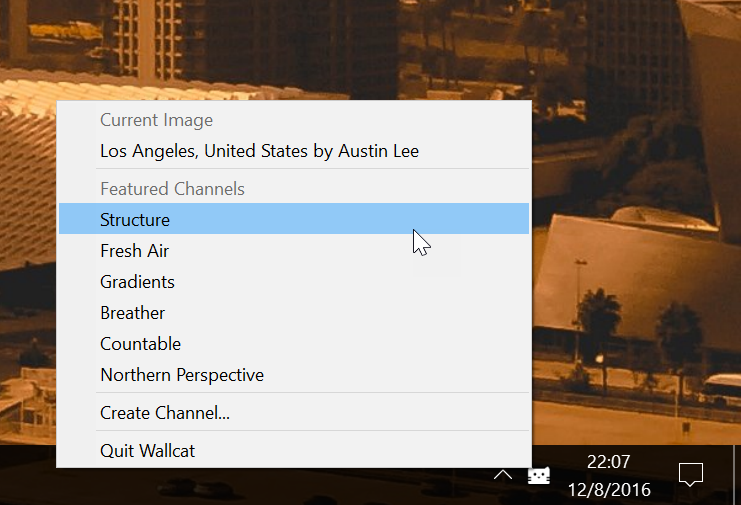
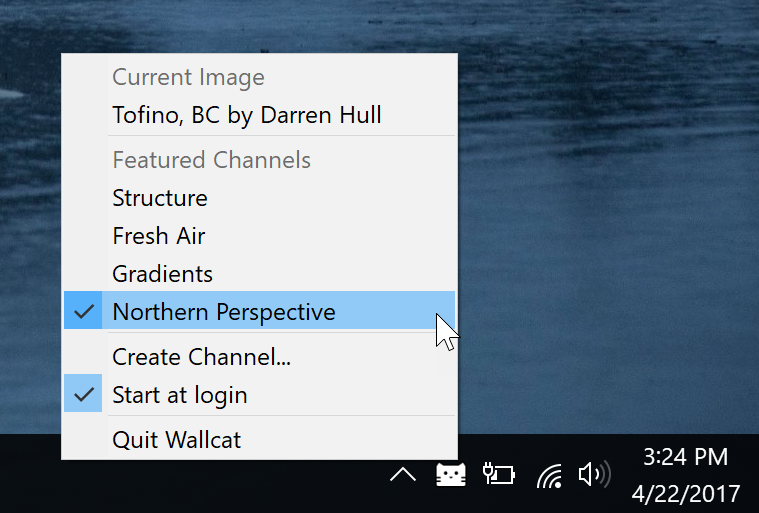
Run at Startup Option, Show Checkmark next to current image

diff --git a/Program.cs b/Program.cs
@@ -1,9 +1,11 @@
-using System;
+using IWshRuntimeLibrary;
+using Microsoft.Win32;
+using System;
 using System.Diagnostics;
+using System.IO;
 using System.Linq;
 using System.Threading;
 using System.Windows.Forms;
-using Microsoft.Win32;
 using Wallcat.Services;
 using Wallcat.Util;
 
@@ -37,12 +39,16 @@ namespace Wallcat
 
         private static void Application_ThreadException(object sender, ThreadExceptionEventArgs e)
         {
+#if DEBUG
             MessageBox.Show(e.Exception.ToString(), "Thread Exception!");
+#endif
         }
 
         private static void CurrentDomain_UnhandledException(object sender, UnhandledExceptionEventArgs e)
         {
+#if DEBUG
             MessageBox.Show((e.ExceptionObject as Exception).ToString(), "Unhandled Exception!");
+#endif
         }
     }
 
@@ -73,11 +79,12 @@ namespace Wallcat
             // Add Menu items
             var channels = _wallcatService.GetChannels().Result;
             _contextMenu.MenuItems.Add(new MenuItem("Featured Channels") { Enabled = false });
-            _contextMenu.MenuItems.AddRange(channels.Select(channel => new MenuItem(channel.title, SelectChannel) { Tag = channel }).ToArray());
+            _contextMenu.MenuItems.AddRange(channels.Select(channel => new MenuItem(channel.title, SelectChannel) { Tag = channel, Checked = IsCurrentChannel(channel) }).ToArray());
             _contextMenu.MenuItems.AddRange(new[]
             {
                 new MenuItem("-") { Enabled = false },
-                new MenuItem("Create Channel...", (sender, args) => Process.Start("https://wall.cat/partners")),
+                new MenuItem("Create Channel...", (sender, args) => Process.Start("https://beta.wall.cat/partners")),
+                new MenuItem("Start at login", (sender, args) => CreateStartupShortcut()) { Checked = IsEnabledAtStartup() },
                 new MenuItem("-") { Enabled = false },
                 new MenuItem("Quit Wallcat", (sender, args) => Application.Exit())
             });
@@ -149,14 +156,26 @@ namespace Wallcat
         {
             const string tag = "CurrentImage";
             const string campaign = "?utm_source=windows&utm_medium=menuItem&utm_campaign=wallcat";
-
-            // Remove previous Current Image (If Any)
+            
             for (var i = _contextMenu.MenuItems.Count - 1; i >= 0; i--)
             {
-                var s = _contextMenu.MenuItems[i].Tag as string;
-                if (s != null && s == tag)
+                // Remove previous Current Image (If Any)
+                if (_contextMenu.MenuItems[i].Tag is string s)
                 {
-                    _contextMenu.MenuItems.Remove(_contextMenu.MenuItems[i]);
+                    if (s == tag)
+                    {
+                        _contextMenu.MenuItems.Remove(_contextMenu.MenuItems[i]);
+                    }
+                }
+
+                // Update Checkmark
+                if (_contextMenu.MenuItems[i].Tag is Channel c)
+                {
+                    _contextMenu.MenuItems[i].Checked = false;
+                    if (c.id == wallpaper.channel.id)
+                    {
+                        _contextMenu.MenuItems[i].Checked = true;
+                    }
                 }
             }
 
@@ -195,6 +214,52 @@ namespace Wallcat
                 case PowerModes.Suspend:
                     _timer.Dispose();
                     break;
+            }
+        }
+
+        private void CreateStartupShortcut()
+        {
+            string pathToExe = System.Reflection.Assembly.GetExecutingAssembly().Location;
+            string pathToShortcut = Path.Combine(Environment.GetFolderPath(Environment.SpecialFolder.Startup), "Wallcat.lnk");
+
+            if (IsEnabledAtStartup())
+            {
+                System.IO.File.Delete(pathToShortcut);
+            }
+            else
+            {
+                var shortcut = (IWshShortcut)new WshShell().CreateShortcut(pathToShortcut);
+
+                shortcut.Description = "Enjoy a new, beautiful wallpaper, every day.";
+                shortcut.TargetPath = pathToExe;
+                shortcut.Save();
+            }
+
+            foreach (MenuItem menuItem in _contextMenu.MenuItems)
+            {
+                if (menuItem.Text == "Start at login")
+                {
+                    menuItem.Checked = IsEnabledAtStartup();
+                    break;
+                }
+            }
+        }
+
+        private static bool IsEnabledAtStartup()
+        {
+            return System.IO.File.Exists(Path.Combine(Environment.GetFolderPath(Environment.SpecialFolder.Startup), "Wallcat.lnk"));
+        }
+
+        private static bool IsCurrentChannel(Channel channel)
+        {
+            var currentWallpaper = Properties.Settings.Default.CurrentWallpaper;
+            if (currentWallpaper != null)
+            {
+                return channel.id == currentWallpaper.channel.id;
+            }
+            else
+            {
+                return channel.isDefault;
             }
         }
     }

diff --git a/Properties/AssemblyInfo.cs b/Properties/AssemblyInfo.cs
@@ -6,11 +6,11 @@ using System.Runtime.InteropServices;
 // set of attributes. Change these attribute values to modify the information
 // associated with an assembly.
 [assembly: AssemblyTitle("Wallcat")]
-[assembly: AssemblyDescription("Unofficial Wallcat for Windows")]
+[assembly: AssemblyDescription("Wallcat for Windows")]
 [assembly: AssemblyConfiguration("")]
 [assembly: AssemblyCompany("Paito Anderson")]
 [assembly: AssemblyProduct("Wallcat")]
-[assembly: AssemblyCopyright("Copyright © Paito Anderson 2016")]
+[assembly: AssemblyCopyright("Copyright © Paito Anderson 2017")]
 [assembly: AssemblyTrademark("")]
 [assembly: AssemblyCulture("")]
 
@@ -32,5 +32,5 @@ using System.Runtime.InteropServices;
 // You can specify all the values or you can default the Build and Revision Numbers 
 // by using the '*' as shown below:
 // [assembly: AssemblyVersion("1.0.*")]
-[assembly: AssemblyVersion("1.0.2.0")]
-[assembly: AssemblyFileVersion("1.0.2.0")]
+[assembly: AssemblyVersion("1.0.3.0")]
+[assembly: AssemblyFileVersion("1.0.3.0")]

diff --git a/Services/IWallcatService.cs b/Services/IWallcatService.cs
@@ -23,6 +23,7 @@ namespace Wallcat.Services
         public string title { get; set; }
 
         public WallpaperPartner partner { get; set; }
+        public WallpaperChannel channel { get; set; }
         public WallpaperUrls url { get; set; }
 
         public string sourceUrl { get; set; }
@@ -32,6 +33,11 @@ namespace Wallcat.Services
     {
         public string first { get; set; }
         public string last { get; set; }
+    }
+
+    public class WallpaperChannel
+    {
+        public string id { get; set; }
     }
 
     public class WallpaperUrls

diff --git a/README.md b/README.md
@@ -1,4 +1,4 @@
-Unofficial Wallcat for Windows
+Wallcat for Windows
 ==============================
 
 ![Demo](https://github.com/PaitoAnderson/WallcatWindows/raw/master/demo.png)
@@ -7,5 +7,6 @@ Unofficial Wallcat for Windows
 
 Contributors
 ============
+[@dustin](https://github.com/dustinsenos)
 [@driskull](https://github.com/driskull)  
 [@singular0](https://github.com/singular0)  
